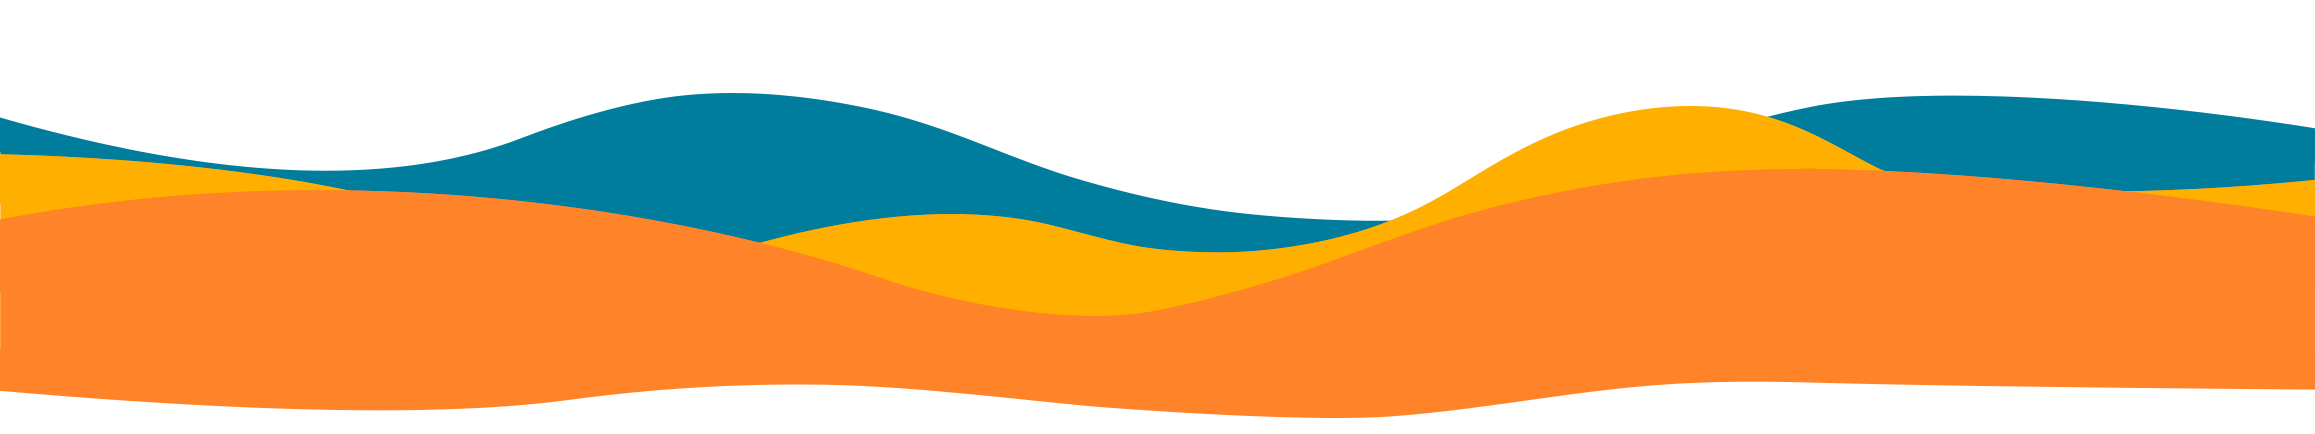
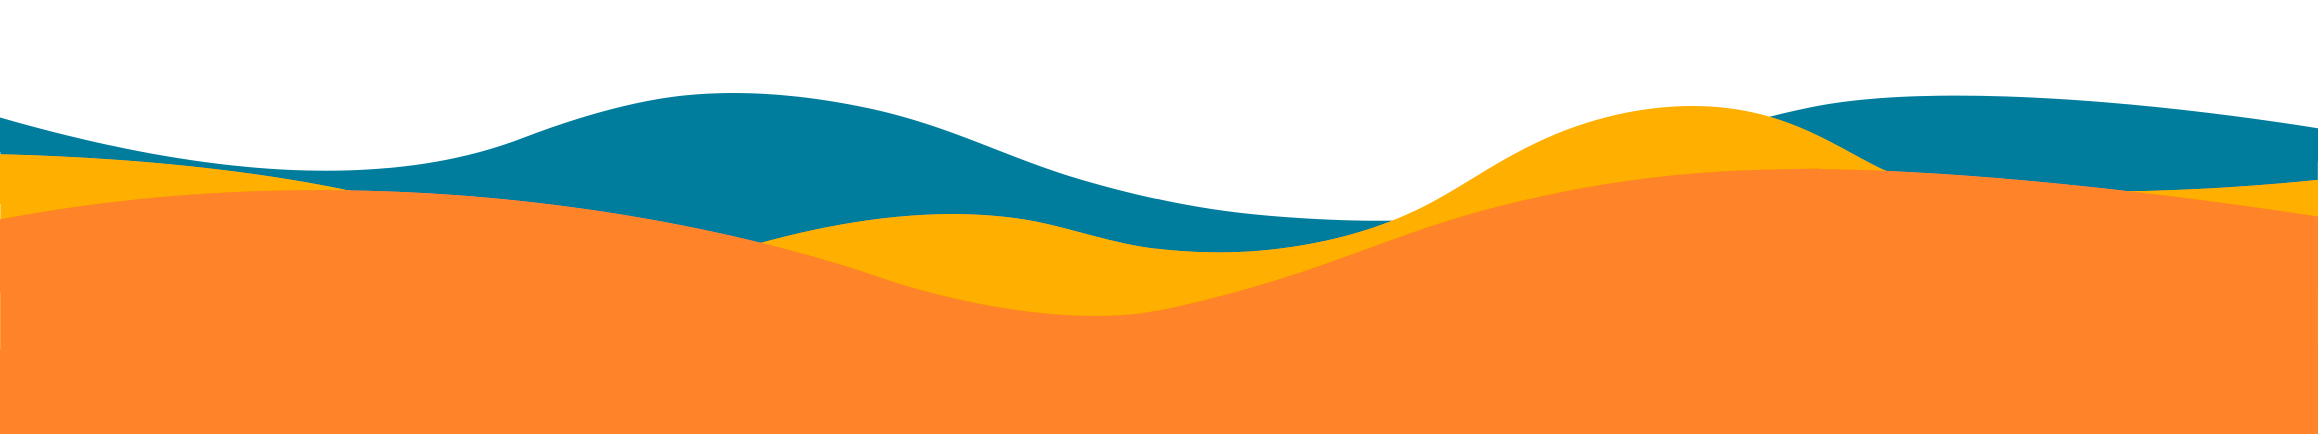
feat(login): rebuilds login layout with materialize
also creates a footer

Changed region(s): [[0.0, 0.8687, 1.0, 1.0]]

diff --git a/src/resources/css/login.css b/src/resources/css/login.css
@@ -1,71 +1,38 @@
-* {
-    box-sizing: border-box;
+.card__input {
+    border-bottom: 1px solid #007c9d !important;
+    box-shadow: 0 1px 0 0 #007c9d !important;
 }
 
-html {
-    height: 100%;
+.input__label {
+    color: #007c9d !important;
 }
 
-body {
-    color: #8f8f8f;
-    min-height: 100%;
-}
-
-.practice-logo {
-    width: 95%;
-}
-
-.card-media {
-    text-align: center;
-}
-
-.form__label {
-    color: #6f6f6f;
-}
-
-.form__field {
-    text-align: center;
-    width: 100%;
-    color: #6f6f6f;
-    font-size: 1.2rem;
-}
-
-.field__input {
-    border: solid 1px #007c9d;
-    background-color: #fff;
-    width: 100% !important;
-    padding: .5rem 1rem;
-    border-radius: 5px;
-    text-align: center;
-    outline: none;
-    color: #000;
-
-    -webkit-transition: all 0.30s ease-in-out;
-    -moz-transition: all 0.30s ease-in-out;
-    -ms-transition: all 0.30s ease-in-out;
-    -o-transition: all 0.30s ease-in-out;
-}
-
-.field__submit {
+.card__btn {
     background: linear-gradient(45deg, #ffaf00, #ff8429);
     border-radius: 5px !important;
     text-transform: uppercase;
-    border: solid 1px #fff;
     width: 60% !important;
     letter-spacing: 2px;
     font-weight: bold !important;
     color: #fff !important;
-    font-size: 1.2rem !important;
-}
-
-.shadow-focus:focus{
-    box-shadow: 0 0 0 0.2rem #b2cbd2 !important;
+    font-size: 1rem !important;
+    margin: 0 auto;
+    box-shadow: none;
 }
 
 .alert-error {
-    color: #761b18;
+    text-align: center;
+    color: #e53935;
+}
+
+.banner {
+    display: flex;
 }
 
 .banner__img {
     width: 100%;
+}
+
+.page-footer {
+    background-color: #ff8429 !important;
 }

diff --git a/src/resources/sass/app.scss b/src/resources/sass/app.scss
@@ -8,3 +8,5 @@
 @import '~materialize-css/sass/materialize';
 
 @import '../css/login.css';
+
+@import '../css/spacing-utilities.css';

diff --git a/src/resources/views/auth/login.blade.php b/src/resources/views/auth/login.blade.php
@@ -1,62 +1,114 @@
 @extends("layouts.app", ["view_name" => "Login"])
 
 @section('content')
-    <div class="container-fluid">
-        <div class="row justify-content-center">
-            <div class="col-xs-12 col-sm-8 col-md-5 col-xl-4">
-                <div class="card mt-5">
-                    <div class="card-body">
+<main>
+    <div class="mt-5">
+        <div class="row">
+            <div class="col m6 l4 xl4 offset-m3 offset-l4 offset-xl4">
+                <form action="" method="post" class="form">
+                    @csrf
+                    <div class="card">
+                        <div class="card-content p-3">
 
-                        <div class="card-media">
-                            <img src="https://practice.uffs.cc/images/logo.png" alt="practice-logo" 
-                                 class="practice-logo"
-                            >
-                        </div>
-                        
-                        <form action="" method="post" class="form">
-                            @csrf
-                            <div class="form__field mb-3">
-                                <label for="username" class="form__label">
+                            <div class="card-image">
+                                <img src="https://practice.uffs.cc/images/logo.png" alt="practice-logo">
+                            </div>
+
+                            <div class="input-field mx-4">
+                                <input id="username" type="text" name="username" value="{{ old('username') }}"
+                                    class="validate @error('username') is-invalid @enderror card__input" 
+                                    required autofocus autocomplete="off"
+                                >
+                                <label for="username" class="input__label">
                                     idUFFS
                                 </label>
-                                <input id="username" type="text" name="username" value="{{ old('username') }}"
-                                        placeholder="Ex. fulano.silva" required autofocus autocomplete="off"
-                                        class="@error('username') is-invalid @enderror field__input shadow-focus" 
-                                />
                             </div>
-
-                            <div class="form__field mb-4">
-                                <label for="password" class="form__label">
+                            <div class="input-field mx-4">
+                                <input id="password" type="password" 
+                                        class="@error('password') is-invalid @enderror validate card__input"
+                                        autocomplete="current-password"
+                                        name="password" required
+                                >
+                                <label for="password" class="input__label">
                                     Senha
                                 </label>
-                                <input id="password" type="password" 
-                                        class="@error('password') is-invalid @enderror field__input shadow-focus"
-                                        name="password" placeholder="Digite sua senha" required
-                                        autocomplete="current-password"
-                                >
                             </div>
 
-                            <div class="form__field mb-3">
-                                <input type="submit" value="Login" class="btn field__submit shadow-focus" />
-                            </div>
-                        </form>
+                            <button type="submit" class="btn waves-block card__btn my-3">
+                                Login
+                            </button>
 
-                        @if ($errors->any()) 
-                            <div class="alert alert-error text-center" role="alert">
-                                <i class="fa fa-times" aria-hidden="true"></i>
-                                @foreach ($errors->all() as $error)
-                                    {{ $error }}
-                                @endforeach
-                            </div>
-                        @endif
+                            @if ($errors->any()) 
+                                <div class="alert-error">
+                                    @foreach ($errors->all() as $error)
+                                        {{ $error }}
+                                    @endforeach
+                                </div>
+                            @endif
+                        </div>
                     </div>
-                </div>
-            </div>
-            <div class="banner">
-                <img src="{{ asset('img/banner-practice.png') }}" 
-                    alt="practice-banner" class="banner__img"
-                >
+                </form>
             </div>
         </div>
     </div>
+    <div class="banner">
+        <img src="{{ asset('img/banner-practice.png') }}" 
+            alt="practice-banner" class="banner__img"
+        >
+    </div>
+</main>
+<footer class="page-footer">
+    <div class="container">
+        <div class="row">
+            <div class="col l6 s12">
+                <h4 class="white-text">Web Feedback</h4>
+                <p class="grey-text text-lighten-4">
+                    Web Feedback é um projeto que objetiva estreitar a comunicação
+                    entre a comunidade UFFS e o programa Practice. Com ele é possível
+                    que você publique seus comentários, sugestões e ideias voltadas para
+                    a melhoria do ensino e da educação para que assim o Practice tenha 
+                    facilidade no planejamento e execução de seus projetos.
+                </p>
+            </div>
+            <div class="col l4 offset-l2 s12">
+                <h5 class="white-text">Saiba mais</h5>
+                <ul>
+                    <li>
+                        <a class="grey-text text-lighten-3" href="https://practice.uffs.cc/sobre/" target="blank">
+                            Sobre
+                        </a>
+                    </li>
+                    <li>
+                        <a class="grey-text text-lighten-3" href="https://practice.uffs.cc/equipe/" target="blank">
+                            Quem somos 
+                        </a>
+                    </li>
+                    <li>
+                        <a class="grey-text text-lighten-3" href="https://practice.uffs.cc/parcerias" target="blank">
+                            Parcerias
+                        </a>
+                    </li>
+                    <li>
+                        <a class="grey-text text-lighten-3" href="https://github.com/practice-uffs" target="blank">
+                            Github
+                        </a>
+                    </li>
+                </ul>
+            </div>
+        </div>
+    </div>
+    <div class="footer-copyright">
+        <div class="container">
+            <p class="grey-text text-lighten-4 left">
+                © 2020 All rights reserved.
+            </p>
+            <p class="grey-text text-lighten-4 right">
+                Powered by
+                <a class="grey-text text-lighten-4" href="htpps://materializecss.com">
+                MaterializeCSS
+            </a>
+            </p>
+        </div>
+    </div>
+</footer>
 @endsection

diff --git a/src/resources/views/layouts/app.blade.php b/src/resources/views/layouts/app.blade.php
@@ -11,7 +11,7 @@
 
         <!-- Fonts -->
         <link rel="dns-prefetch" href="//fonts.gstatic.com">
-        <link type="text/css" rel="stylesheet" href="{{ asset('css/font-awesome.min.css') }}"/>
+        <link href="https://fonts.googleapis.com/icon?family=Material+Icons" rel="stylesheet">
         
         <!-- Styles -->
         <link href="{{ asset('css/app.css') }}" rel="stylesheet">
